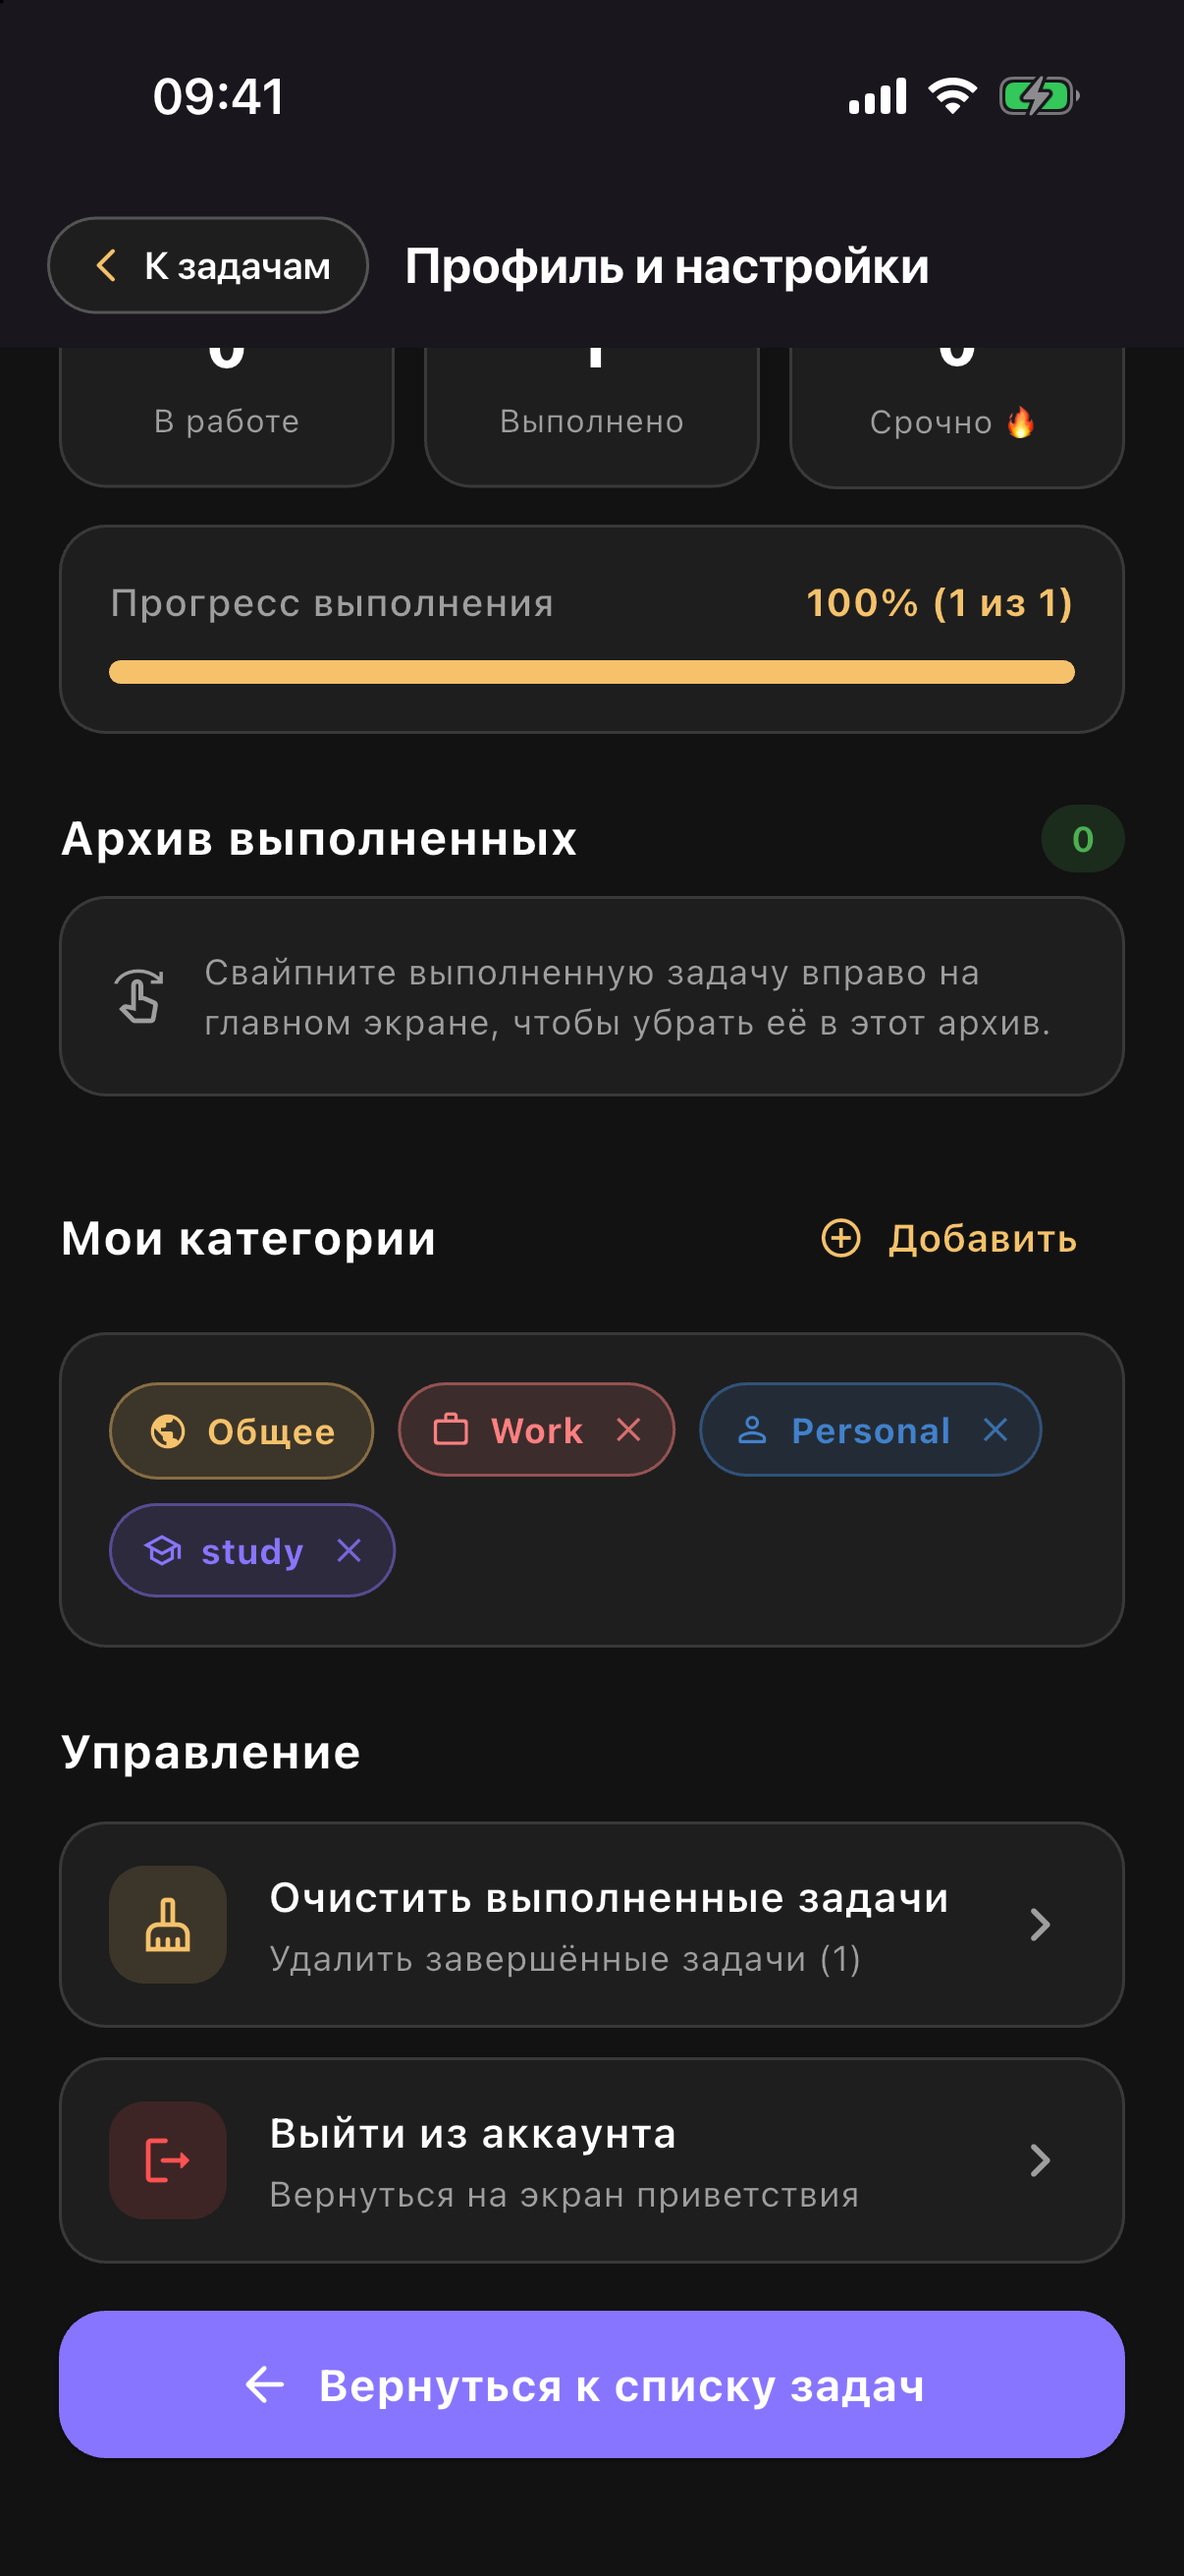
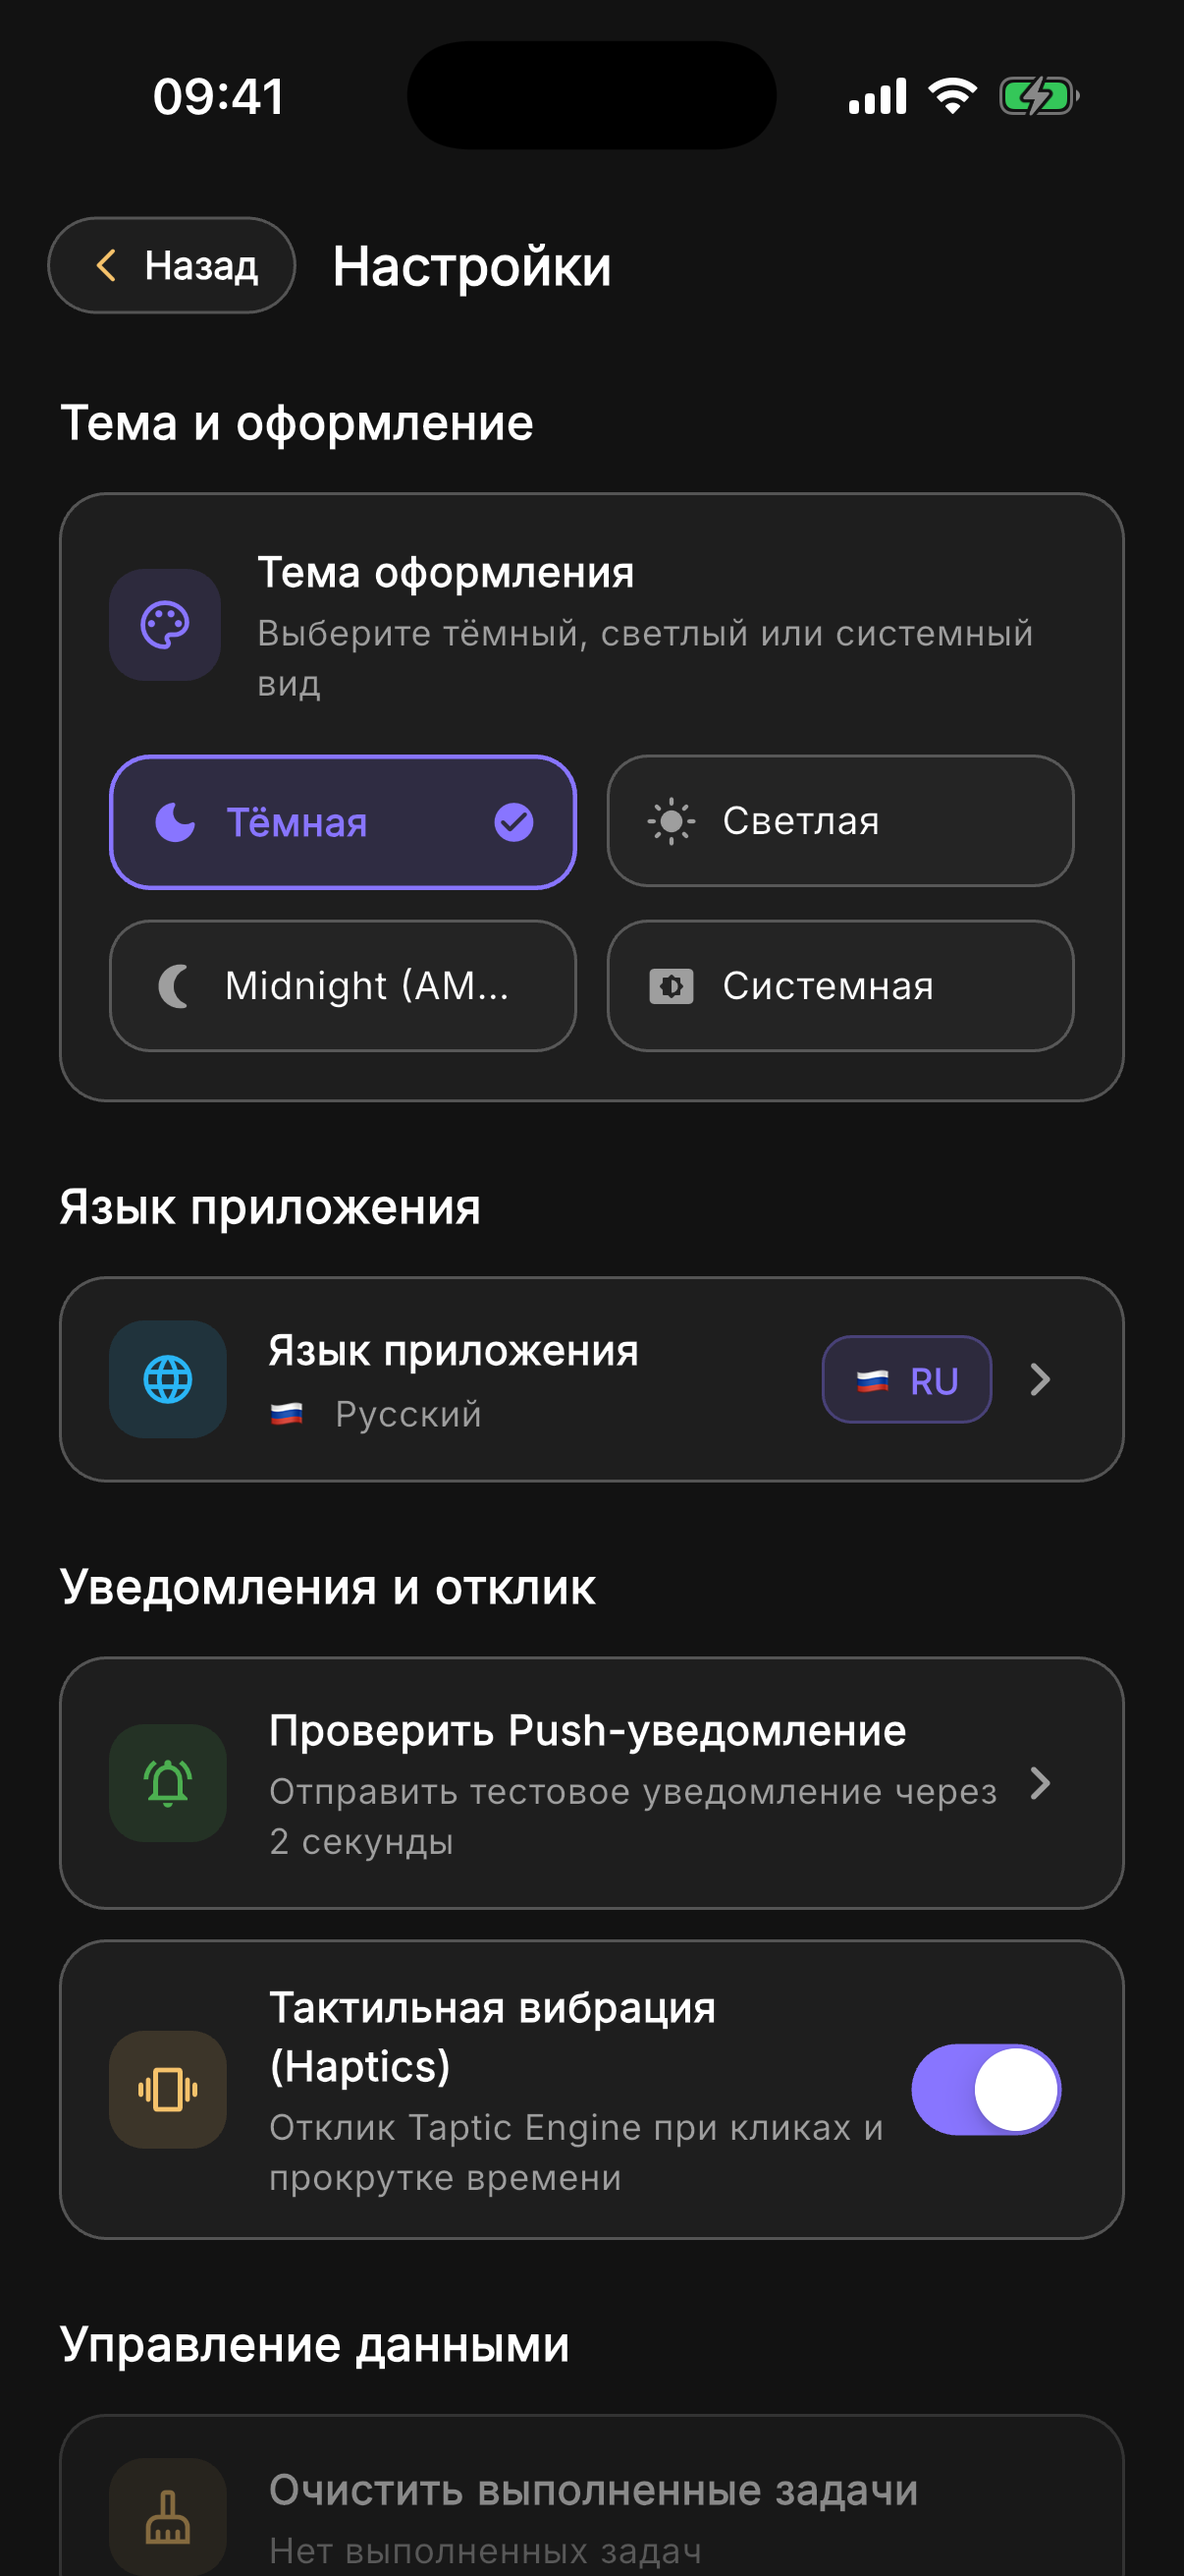
Update Todo project with new features: localization, themes, audio studio

diff --git a/todo.html b/todo.html
@@ -63,7 +63,7 @@ footer{margin-top:80px;border-top:1px solid var(--line);padding:28px 0 40px;colo
 <main>
 <span class="tag">готов · обновляется</span>
 <h1>TodoApp</h1>
-<p class="lead">Современный менеджер задач на Flutter: настраиваемые категории с иконками, подзадачи с прогрессом, встроенный Pomodoro-таймер фокусировки и надёжная авторизация через Supabase OTP.</p>
+<p class="lead">Современный менеджер задач на Flutter: настраиваемые чек-листы, Pomodoro-таймер с генератором фонового шума, 4 темы оформления (включая AMOLED), мгновенная локализация на 5 языков и надёжная авторизация через Supabase OTP.</p>
 <div class="btns">
   <a class="btn main" href="https://github.com/helltrilla/todo">Код на GitHub</a>
   <a class="btn" href="#features">Возможности</a>
@@ -77,14 +77,26 @@ footer{margin-top:80px;border-top:1px solid var(--line);padding:28px 0 40px;colo
 
 <h2>Скриншоты</h2>
 <div class="shots">
+  <figure><img src="img/todo/home_screen.png" data-f="home_screen.png" alt="Главный экран" width="202" height="440" loading="lazy"><figcaption>Главный экран</figcaption></figure>
+  <figure><img src="img/todo/focus_screen.png" data-f="focus_screen.png" alt="Фокус и аудио-хаб" width="202" height="440" loading="lazy"><figcaption>Фокус и аудио-хаб</figcaption></figure>
+  <figure><img src="img/todo/settings_screen.png" data-f="settings_screen.png" alt="Профиль и настройки" width="202" height="440" loading="lazy"><figcaption>Настройки</figcaption></figure>
   <figure><img src="img/todo/onboarding_screen.png" data-f="onboarding_screen.png" alt="Онбординг" width="202" height="440" loading="lazy"><figcaption>Онбординг</figcaption></figure>
   <figure><img src="img/todo/welcome_screen.png" data-f="welcome_screen.png" alt="Авторизация" width="202" height="440" loading="lazy"><figcaption>Авторизация</figcaption></figure>
-  <figure><img src="img/todo/home_screen.png" data-f="home_screen.png" alt="Главный экран" width="202" height="440" loading="lazy"><figcaption>Главный экран</figcaption></figure>
-  <figure><img src="img/todo/settings_screen.png" data-f="settings_screen.png" alt="Профиль и настройки" width="202" height="440" loading="lazy"><figcaption>Настройки</figcaption></figure>
 </div>
 
 <h2 id="features">Возможности</h2>
 <div class="grid">
+  <article class="card"><h3>Локализация на 5 языков</h3><ul>
+    <li>Поддержка русского, английского, немецкого, французского и сербского языков</li>
+    <li>Мгновенное переключение без перезапуска приложения</li>
+    <li>Правильная плюрализация слов (1 задача, 2 задачи, 5 задач)</li></ul></article>
+  <article class="card"><h3>4 темы оформления</h3><ul>
+    <li>Тёмная, Светлая, Системная</li>
+    <li>AMOLED Midnight (глубокий чёрный #000000) для экономии батареи</li></ul></article>
+  <article class="card"><h3>Фокус-студия и музыкальный хаб</h3><ul>
+    <li>Генератор фонового шума (дождь, океан, кафе, винил) с микшером</li>
+    <li>Встроенный музыкальный плеер с подгрузкой обложек</li>
+    <li>Интеграция с экраном блокировки (Now Playing)</li></ul></article>
   <article class="card"><h3>Умные задачи и подзадачи</h3><ul>
     <li>Создание подзадач внутри любой задачи с интерактивными чекбоксами на карточке</li>
     <li>Бейдж прогресса (напр. 2/3)</li>
@@ -95,14 +107,6 @@ footer{margin-top:80px;border-top:1px solid var(--line);padding:28px 0 40px;colo
   <article class="card"><h3>Двухрежимная авторизация</h3><ul>
     <li>Вход по Email с настоящим 6-значным кодом (через Supabase Auth REST API)</li>
     <li>Внутренний профиль (логин/пароль) с локальным хранением для офлайн-работы</li></ul></article>
-  <article class="card"><h3>Интерактивный онбординг</h3><ul>
-    <li>Приветственные слайды с векторной графикой при первом запуске</li>
-    <li>Запоминание статуса первого входа</li></ul></article>
-  <article class="card"><h3>4 уровня приоритета</h3><ul>
-    <li>P1 — Срочно 🔥 (красный акцент и выделенная рамка карточки)</li>
-    <li>P2 — Высокий ⚡ (оранжевый акцент)</li>
-    <li>P3 — Средний 📌 (фиолетовый акцент)</li>
-    <li>P4 — Низкий 🌿 (зелёный акцент)</li></ul></article>
   <article class="card"><h3>Таймер фокусировки</h3><ul>
     <li>Встроенный Pomodoro-таймер для концентрации над задачами</li></ul></article>
 </div>
@@ -111,7 +115,7 @@ footer{margin-top:80px;border-top:1px solid var(--line);padding:28px 0 40px;colo
 <p class="n" style="margin-bottom:20px">Приложение построено по принципам Feature-First Clean Architecture, разделяя логику, данные и UI.</p>
 
 <h2>Стек</h2>
-<ul class="chips"><li>Flutter</li><li>Dart</li><li>Provider</li><li>go_router</li><li>Supabase</li><li>Google Fonts</li><li>shared_preferences</li></ul>
+<ul class="chips"><li>Flutter</li><li>Dart</li><li>Provider</li><li>go_router</li><li>Supabase</li><li>flutter_localizations</li><li>shared_preferences</li></ul>
 
 <h2>Запуск</h2>
 <pre>git clone https://github.com/helltrilla/todo.git

diff --git a/index.html b/index.html
@@ -131,8 +131,8 @@ footer{border-top:1px solid var(--line);padding:28px 0;color:var(--mute);font-si
       </article>
       <article class="stop">
         <h4><a href="todo.html">Todo</a> <span class="tag">готов · обновляется</span></h4>
-        <p>Менеджер задач на Flutter: категории с иконками, подзадачи, Pomodoro-таймер и авторизация через Supabase OTP.</p>
-        <ul class="chips"><li>Flutter</li><li>Dart</li><li>Provider</li><li>go_router</li><li>Supabase</li><li>Google Fonts</li><li>shared_preferences</li></ul>
+        <p>Менеджер задач на Flutter: чек-листы, Pomodoro-таймер с генератором фонового шума, 4 темы оформления (включая AMOLED), локализация на 5 языков и вход через Supabase.</p>
+        <ul class="chips"><li>Flutter</li><li>Provider</li><li>Supabase</li><li>Localization</li><li>Themes</li></ul>
         <a class="more" href="todo.html">Читать подробнее</a> · <a class="more" href="https://github.com/helltrilla/todo">Код на GitHub</a>
       </article>
     </div>
